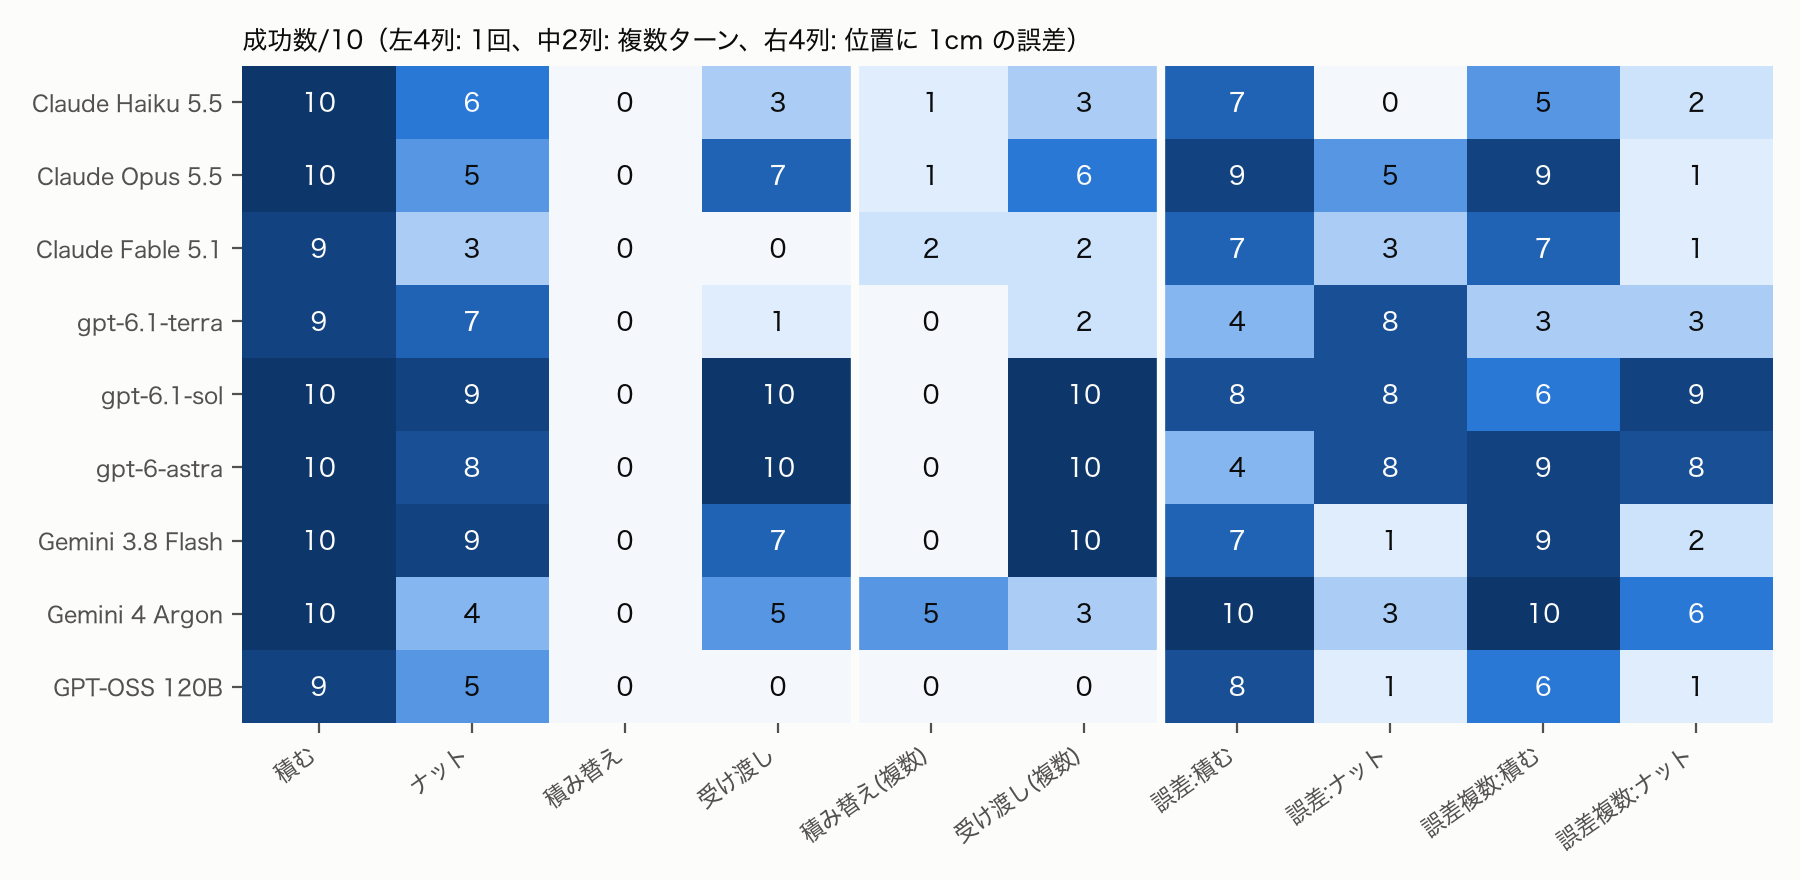
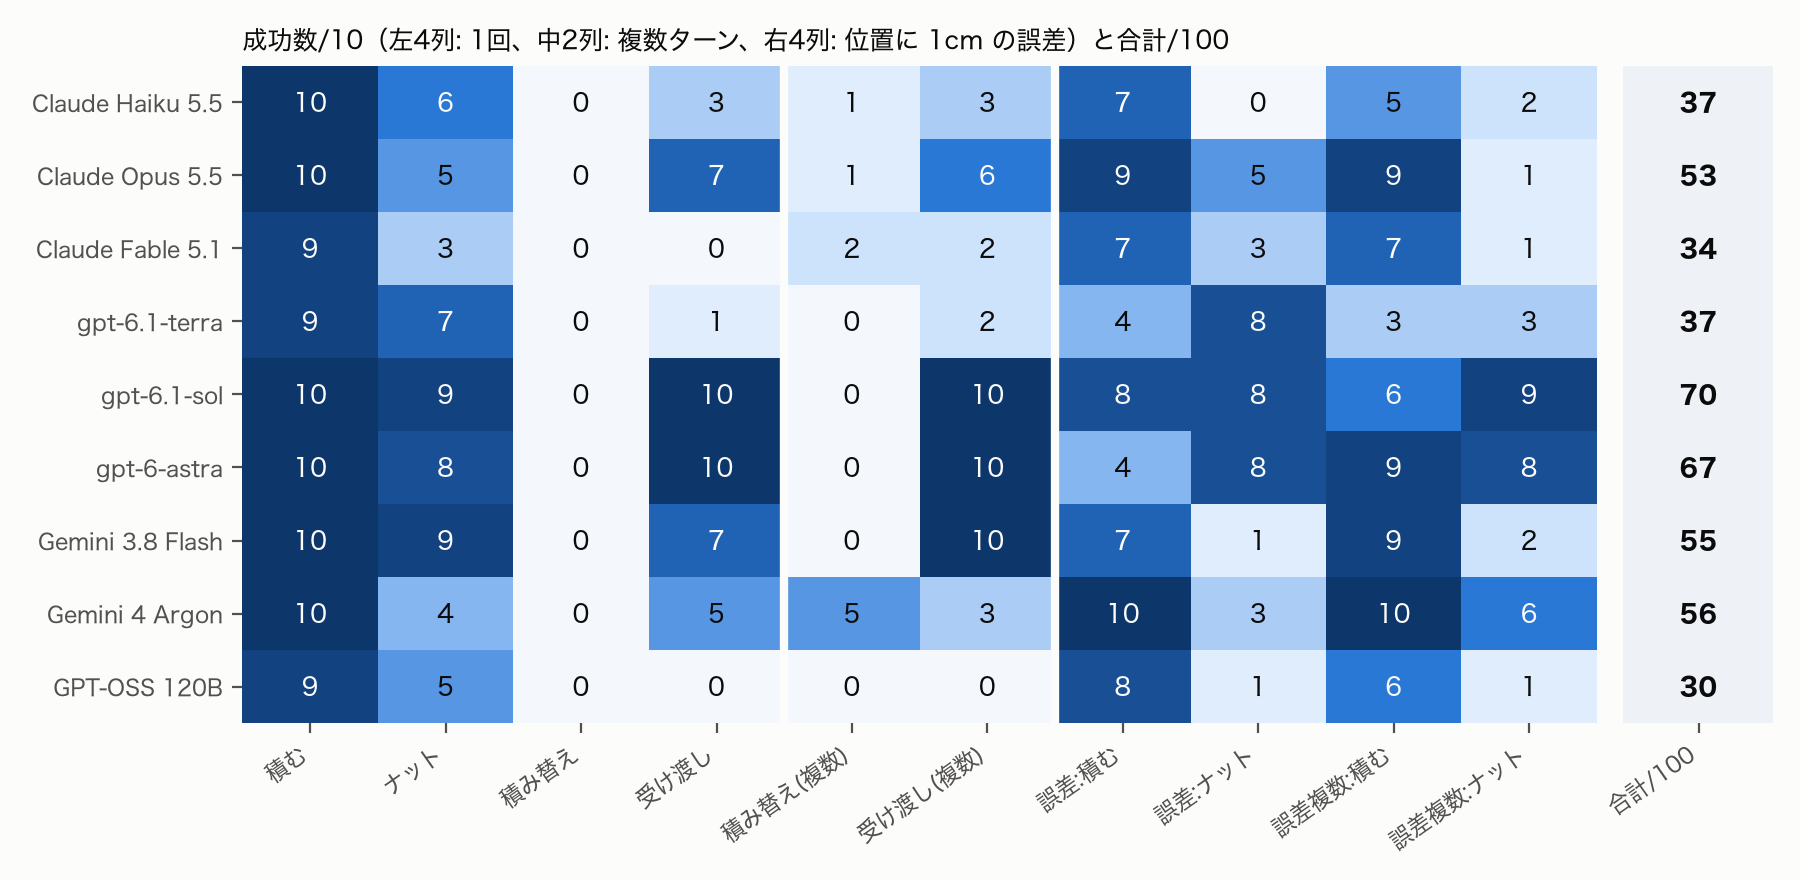
結果の表に合計を入れる（図0 と動画の実験1・実験2 の表）
- 図0（ヒートマップ）の右端に10セルの合計（/100）の列を足す。表1の合計と同じ値
- 動画の実験1 の場面に、合計の読み方の注意（難しさの違うセルの和なので、近い値どうしの順位には意味がない）を足す
- 動画の実験2 の表に3タスクの合計（/30）の列を足す。参考の行は、大規模9モデルそれぞれの3タスク合計の中央値（19、範囲 12〜29）

diff --git a/scripts/make_video.py b/scripts/make_video.py
@@ -291,10 +291,11 @@ def build(out_mp4: Path, work: Path) -> None:
 
     # 6. 全体の表
     c = Card()
-    c.header("実験1 の結果（成功数 / 10）",
-             "左 4 列: シングルターン、中 2 列: 複数ターン、右 4 列: 位置ノイズあり（シングル・複数ターン）")
-    c.image(ROOT / "report/figs/fig0_heatmap.png", (MARGIN, 230, W - 2 * MARGIN, 800))
-    segs.append(still(c.save(seg("heatmap.png")), 8, seg("heatmap.mp4")))
+    y = c.header("実験1 の結果（成功数 / 10 と、10 セルの合計 / 100）",
+                 "左 4 列: シングルターン、中 2 列: 複数ターン、右 4 列: 位置ノイズあり（シングル・複数ターン）。"
+                 "合計は難しさの違うセルの和なので、近い値どうし（例: Argon 56 と Flash 55）の順位には意味がない")
+    c.image(ROOT / "report/figs/fig0_heatmap.png", (MARGIN, y, W - 2 * MARGIN, H - y - 30))
+    segs.append(still(c.save(seg("heatmap.png")), 10, seg("heatmap.mp4")))
 
     # 7. 受け渡し
     c = Card()
@@ -365,18 +366,20 @@ def build(out_mp4: Path, work: Path) -> None:
 
     # 12. 実験2 の結果（表）
     c = Card()
-    c.header("実験2 の結果（成功数 / 10）")
+    y = c.header("実験2 の結果（成功数 / 10 と、3 タスクの合計 / 30）",
+                 "参考の行は、大規模 9 モデルのシングルターンの中央値。合計の 19 は、各モデルの 3 タスク合計の中央値（範囲 12〜29）")
     rows = [
-        ["条件", "積む", "ナット", "受け渡し"],
-        ["そのまま", "1", "0", "0"],
-        ["① 複数ターン", "5", "0", "0"],
-        ["② スキルライブラリ", "5", "1", "0"],
-        ["①＋②", "6", "0", "0"],
-        ["参考: 大規模 9 モデル（シングルターン）の中央値", "10", "6", "5"],
+        ["条件", "積む", "ナット", "受け渡し", "合計 / 30"],
+        ["そのまま", "1", "0", "0", "1"],
+        ["① 複数ターン", "5", "0", "0", "5"],
+        ["② スキルライブラリ", "5", "1", "0", "6"],
+        ["①＋②", "6", "0", "0", "6"],
+        ["参考: 大規模 9 モデルの中央値", "10", "6", "5", "19"],
     ]
     colors = {(r, 1): OK for r in (2, 3, 4)}
-    colors.update({(5, c_): SUB for c_ in range(4)})
-    y = c.table(MARGIN, 200, [880, 260, 260, 260], rows, size=38, rowh=78, colors=colors)
+    colors.update({(5, c_): SUB for c_ in range(5)})
+    colors.update({(r, 4): ACCENT for r in range(1, 5)})
+    y = c.table(MARGIN, y + 20, [700, 240, 240, 260, 280], rows, size=38, rowh=78, colors=colors)
     c.bullets(MARGIN, y + 40, [
         "積むは 1/10 から 5〜6/10 に上がった。3 条件まとめると 16/30 対 1/10 で Fisher の p = 0.026"
         "（ただし、まとめ方は結果を見てから決めた。①と②のどちらが効いたかは区別できない）",

diff --git a/scripts/make_report.py b/scripts/make_report.py
@@ -301,6 +301,7 @@ def fig_total(plt, grid) -> None:
 
 
 def fig_heatmap(plt, grid) -> None:
+    import matplotlib.patches as mpatches
     from matplotlib.colors import LinearSegmentedColormap
 
     cmap = LinearSegmentedColormap.from_list("blue", ["#f4f8fd", "#cde2fb", "#86b6ef", "#2a78d6", "#184f95", "#0d366b"])
@@ -311,14 +312,21 @@ def fig_heatmap(plt, grid) -> None:
     for i, row in enumerate(data):
         for j, v in enumerate(row):
             ax.text(j, i, str(v), ha="center", va="center", fontsize=9, color=SURFACE if v >= 6 else INK)
-    ax.set_xticks(range(len(CELLS)), [c[2] for c in CELLS], rotation=35, ha="right", fontsize=8)
+    # 右端に合計（10セルの和、/100）。色は付けず、灰色の帯の上に数字だけ書く
+    n = len(CELLS)
+    tx = n + 0.25
+    ax.add_patch(mpatches.Rectangle((n - 0.3, -0.5), 1.1, len(labels), color="#eef1f5", zorder=0))
+    for i, row in enumerate(data):
+        ax.text(tx, i, str(sum(row)), ha="center", va="center", fontsize=9, color=INK, fontweight="bold")
+    ax.set_xlim(-0.5, n + 0.8)
+    ax.set_xticks(list(range(n)) + [tx], [c[2] for c in CELLS] + ["合計/100"], rotation=35, ha="right", fontsize=8)
     ax.set_yticks(range(len(labels)), labels, fontsize=8)
     ax.grid(False)
     for s in ax.spines.values():
         s.set_visible(False)
     ax.axvline(5.5, color=SURFACE, linewidth=3)
     ax.axvline(3.5, color=SURFACE, linewidth=3)
-    ax.set_title("成功数/10（左4列: 1回、中2列: 複数ターン、右4列: 位置に 1cm の誤差）", loc="left", fontsize=9, color=INK)
+    ax.set_title("成功数/10（左4列: 1回、中2列: 複数ターン、右4列: 位置に 1cm の誤差）と合計/100", loc="left", fontsize=9, color=INK)
     fig.tight_layout()
     fig.savefig(FIGS / "fig0_heatmap.png", dpi=200)
     plt.close(fig)
